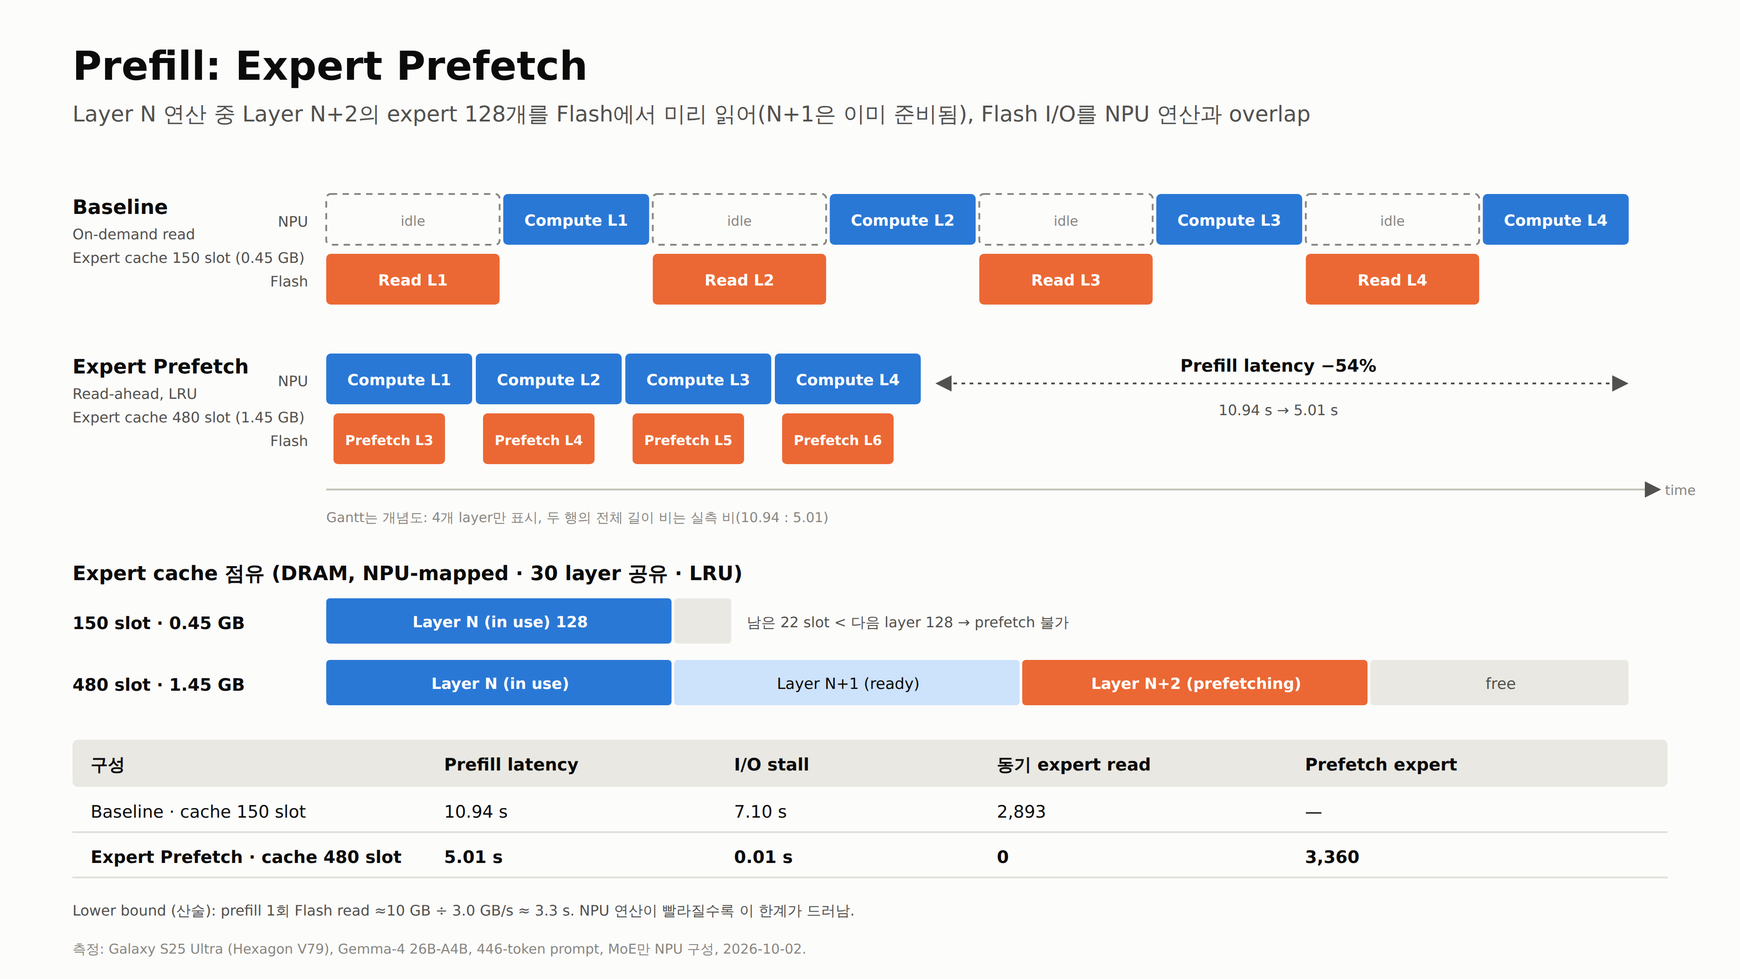
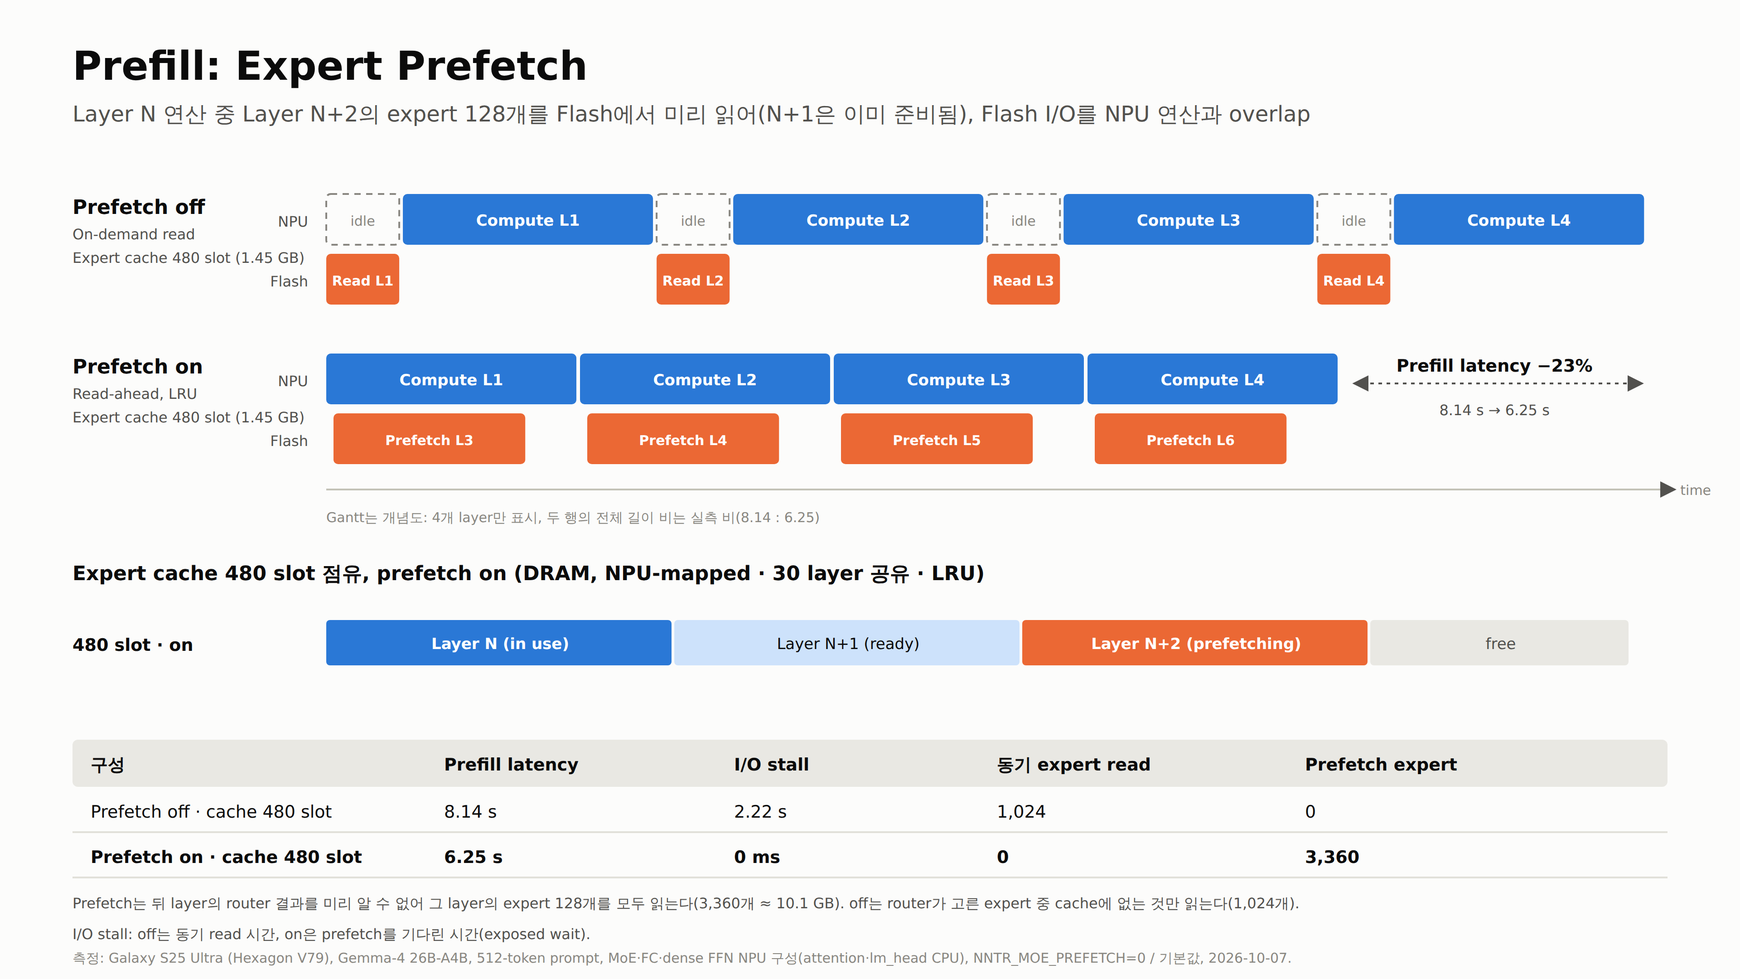
[Docs] Prefill prefetch figure: off vs on at the same 480-slot cache
The old baseline was a 150-slot cache, so it changed two things at
once. Redraw it from the 2026-10-07 device pair that differs only in
NNTR_MOE_PREFETCH (512 tokens: 8.14 s off, 6.25 s on) and record the
runs in 57 section 9.8.

Claude-Session: https://claude.ai/code/session_01DSR1wqiXYbkGfHZr8uSdzK

diff --git a/docs/htp_attention/figures/fsu/fsu_prefill_prefetch.html b/docs/htp_attention/figures/fsu/fsu_prefill_prefetch.html
@@ -35,77 +35,72 @@ svg { display:block; font-family:"Noto Sans KR",system-ui,sans-serif; }
 
 <text x="80" y="88" class="t1" text-anchor="start" >Prefill: Expert Prefetch</text>
 <text x="80" y="134" class="t2" text-anchor="start" >Layer N 연산 중 Layer N+2의 expert 128개를 Flash에서 미리 읽어(N+1은 이미 준비됨), Flash I/O를 NPU 연산과 overlap</text>
-<text x="80" y="236" class="h3" text-anchor="start" >Baseline</text>
+<text x="80" y="236" class="h3" text-anchor="start" >Prefetch off</text>
 <text x="80" y="264" class="sm" text-anchor="start" >On-demand read</text>
-<text x="80" y="290" class="sm" text-anchor="start" >Expert cache 150 slot (0.45 GB)</text>
+<text x="80" y="290" class="sm" text-anchor="start" >Expert cache 480 slot (1.45 GB)</text>
 <text x="340" y="250" class="sm" text-anchor="end" style="font-weight:500">NPU</text>
 <text x="340" y="316" class="sm" text-anchor="end" style="font-weight:500">Flash</text>
-<rect x="360.0" y="214" width="191.2994011976048" height="56" rx="5" fill="none" stroke="#898781" stroke-width="2" stroke-dasharray="7 6"/>
-<text x="455.6497005988024" y="249" class="xs" text-anchor="middle" >idle</text>
-<rect x="360.0" y="280" width="191.2994011976048" height="56" rx="5" fill="var(--read)" />
-<text x="455.6497005988024" y="315" class="lblw" text-anchor="middle" style="font-size:17px">Read L1</text>
-<rect x="555.2994011976048" y="214" width="161" height="56" rx="5" fill="var(--npu)" />
-<text x="635.7994011976048" y="249" class="lblw" text-anchor="middle" style="font-size:17px">Compute L1</text>
-<rect x="720.2994011976048" y="214" width="191.2994011976048" height="56" rx="5" fill="none" stroke="#898781" stroke-width="2" stroke-dasharray="7 6"/>
-<text x="815.9491017964071" y="249" class="xs" text-anchor="middle" >idle</text>
-<rect x="720.2994011976048" y="280" width="191.2994011976048" height="56" rx="5" fill="var(--read)" />
-<text x="815.9491017964071" y="315" class="lblw" text-anchor="middle" style="font-size:17px">Read L2</text>
-<rect x="915.5988023952095" y="214" width="161" height="56" rx="5" fill="var(--npu)" />
-<text x="996.0988023952095" y="249" class="lblw" text-anchor="middle" style="font-size:17px">Compute L2</text>
-<rect x="1080.5988023952095" y="214" width="191.2994011976048" height="56" rx="5" fill="none" stroke="#898781" stroke-width="2" stroke-dasharray="7 6"/>
-<text x="1176.248502994012" y="249" class="xs" text-anchor="middle" >idle</text>
-<rect x="1080.5988023952095" y="280" width="191.2994011976048" height="56" rx="5" fill="var(--read)" />
-<text x="1176.248502994012" y="315" class="lblw" text-anchor="middle" style="font-size:17px">Read L3</text>
-<rect x="1275.8982035928143" y="214" width="161" height="56" rx="5" fill="var(--npu)" />
-<text x="1356.3982035928143" y="249" class="lblw" text-anchor="middle" style="font-size:17px">Compute L3</text>
-<rect x="1440.8982035928143" y="214" width="191.2994011976048" height="56" rx="5" fill="none" stroke="#898781" stroke-width="2" stroke-dasharray="7 6"/>
-<text x="1536.5479041916167" y="249" class="xs" text-anchor="middle" >idle</text>
-<rect x="1440.8982035928143" y="280" width="191.2994011976048" height="56" rx="5" fill="var(--read)" />
-<text x="1536.5479041916167" y="315" class="lblw" text-anchor="middle" style="font-size:17px">Read L4</text>
-<rect x="1636.197604790419" y="214" width="161" height="56" rx="5" fill="var(--npu)" />
-<text x="1716.697604790419" y="249" class="lblw" text-anchor="middle" style="font-size:17px">Compute L4</text>
-<text x="80" y="412" class="h3" text-anchor="start" >Expert Prefetch</text>
+<rect x="360.0" y="214" width="80.5376" height="56" rx="5" fill="none" stroke="#898781" stroke-width="2" stroke-dasharray="7 6"/>
+<text x="400.2688" y="249" class="xs" text-anchor="middle" >idle</text>
+<rect x="360.0" y="280" width="80.5376" height="56" rx="5" fill="var(--read)" />
+<text x="400.2688" y="315" class="lblw" text-anchor="middle" style="font-size:15px">Read L1</text>
+<rect x="444.5376" y="214" width="276" height="56" rx="5" fill="var(--npu)" />
+<text x="582.5376" y="249" class="lblw" text-anchor="middle" style="font-size:17px">Compute L1</text>
+<rect x="724.5376" y="214" width="80.5376" height="56" rx="5" fill="none" stroke="#898781" stroke-width="2" stroke-dasharray="7 6"/>
+<text x="764.8063999999999" y="249" class="xs" text-anchor="middle" >idle</text>
+<rect x="724.5376" y="280" width="80.5376" height="56" rx="5" fill="var(--read)" />
+<text x="764.8063999999999" y="315" class="lblw" text-anchor="middle" style="font-size:15px">Read L2</text>
+<rect x="809.0752" y="214" width="276" height="56" rx="5" fill="var(--npu)" />
+<text x="947.0752" y="249" class="lblw" text-anchor="middle" style="font-size:17px">Compute L2</text>
+<rect x="1089.0752" y="214" width="80.5376" height="56" rx="5" fill="none" stroke="#898781" stroke-width="2" stroke-dasharray="7 6"/>
+<text x="1129.344" y="249" class="xs" text-anchor="middle" >idle</text>
+<rect x="1089.0752" y="280" width="80.5376" height="56" rx="5" fill="var(--read)" />
+<text x="1129.344" y="315" class="lblw" text-anchor="middle" style="font-size:15px">Read L3</text>
+<rect x="1173.6127999999999" y="214" width="276" height="56" rx="5" fill="var(--npu)" />
+<text x="1311.6127999999999" y="249" class="lblw" text-anchor="middle" style="font-size:17px">Compute L3</text>
+<rect x="1453.6127999999999" y="214" width="80.5376" height="56" rx="5" fill="none" stroke="#898781" stroke-width="2" stroke-dasharray="7 6"/>
+<text x="1493.8816" y="249" class="xs" text-anchor="middle" >idle</text>
+<rect x="1453.6127999999999" y="280" width="80.5376" height="56" rx="5" fill="var(--read)" />
+<text x="1493.8816" y="315" class="lblw" text-anchor="middle" style="font-size:15px">Read L4</text>
+<rect x="1538.1504" y="214" width="276" height="56" rx="5" fill="var(--npu)" />
+<text x="1676.1504" y="249" class="lblw" text-anchor="middle" style="font-size:17px">Compute L4</text>
+<text x="80" y="412" class="h3" text-anchor="start" >Prefetch on</text>
 <text x="80" y="440" class="sm" text-anchor="start" >Read-ahead, LRU</text>
 <text x="80" y="466" class="sm" text-anchor="start" >Expert cache 480 slot (1.45 GB)</text>
 <text x="340" y="426" class="sm" text-anchor="end" style="font-weight:500">NPU</text>
 <text x="340" y="492" class="sm" text-anchor="end" style="font-weight:500">Flash</text>
-<rect x="360" y="390" width="161" height="56" rx="5" fill="var(--npu)" />
-<text x="440.5" y="425" class="lblw" text-anchor="middle" style="font-size:17px">Compute L1</text>
-<rect x="368" y="456" width="123.05" height="56" rx="5" fill="var(--read)" />
-<text x="429.525" y="491" class="lblw" text-anchor="middle" style="font-size:15px">Prefetch L3</text>
-<rect x="525" y="390" width="161" height="56" rx="5" fill="var(--npu)" />
-<text x="605.5" y="425" class="lblw" text-anchor="middle" style="font-size:17px">Compute L2</text>
-<rect x="533" y="456" width="123.05" height="56" rx="5" fill="var(--read)" />
-<text x="594.525" y="491" class="lblw" text-anchor="middle" style="font-size:15px">Prefetch L4</text>
-<rect x="690" y="390" width="161" height="56" rx="5" fill="var(--npu)" />
-<text x="770.5" y="425" class="lblw" text-anchor="middle" style="font-size:17px">Compute L3</text>
-<rect x="698" y="456" width="123.05" height="56" rx="5" fill="var(--read)" />
-<text x="759.525" y="491" class="lblw" text-anchor="middle" style="font-size:15px">Prefetch L5</text>
-<rect x="855" y="390" width="161" height="56" rx="5" fill="var(--npu)" />
-<text x="935.5" y="425" class="lblw" text-anchor="middle" style="font-size:17px">Compute L4</text>
-<rect x="863" y="456" width="123.05" height="56" rx="5" fill="var(--read)" />
-<text x="924.525" y="491" class="lblw" text-anchor="middle" style="font-size:15px">Prefetch L6</text>
-<path d="M360,540 L1831.197604790419,540" stroke="#c3c2b7" stroke-width="2" marker-end="url(#ah)"/>
-<text x="1837.197604790419" y="546" class="xs" text-anchor="start" >time</text>
-<path d="M1034,423 L1795.197604790419,423" stroke="#52514e" stroke-width="2" stroke-dasharray="4 5" marker-end="url(#ah)" marker-start="url(#ah)"/>
-<text x="1410.5988023952095" y="410" class="lbl" text-anchor="middle" style="font-weight:700">Prefill latency −54%</text>
-<text x="1410.5988023952095" y="458" class="sm" text-anchor="middle" >10.94 s → 5.01 s</text>
-<text x="360" y="576" class="xs" text-anchor="start" >Gantt는 개념도: 4개 layer만 표시, 두 행의 전체 길이 비는 실측 비(10.94 : 5.01)</text>
-<text x="80" y="640" class="h3" text-anchor="start" >Expert cache 점유 (DRAM, NPU-mapped · 30 layer 공유 · LRU)</text>
-<text x="80" y="694" class="lbl" text-anchor="start" style="font-weight:700">150 slot · 0.45 GB</text>
-<rect x="360" y="660" width="381.0" height="50" rx="4" fill="var(--npu)" />
-<text x="552.0" y="692" class="lblw" text-anchor="middle" style="font-size:17px">Layer N (in use) 128</text>
-<rect x="744.0" y="660" width="63.0" height="50" rx="4" fill="var(--idle)" />
-<text x="824.0" y="692" class="sm" text-anchor="start" >남은 22 slot < 다음 layer 128 → prefetch 불가</text>
-<text x="80" y="762" class="lbl" text-anchor="start" style="font-weight:700">480 slot · 1.45 GB</text>
-<rect x="360" y="728" width="381.0" height="50" rx="4" fill="var(--npu)" />
-<text x="552.0" y="760" class="lblw" text-anchor="middle" style="font-size:17px">Layer N (in use)</text>
-<rect x="744.0" y="728" width="381.0" height="50" rx="4" fill="var(--npu-t)" />
-<text x="936.0" y="760" class="lbl" text-anchor="middle" style="font-size:17px">Layer N+1 (ready)</text>
-<rect x="1128.0" y="728" width="381.0" height="50" rx="4" fill="var(--read)" />
-<text x="1320.0" y="760" class="lblw" text-anchor="middle" style="font-size:17px">Layer N+2 (prefetching)</text>
-<rect x="1512.0" y="728" width="285.0" height="50" rx="4" fill="var(--idle)" />
-<text x="1656.0" y="760" class="sm" text-anchor="middle" style="font-size:17px">free</text>
+<rect x="360" y="390" width="276" height="56" rx="5" fill="var(--npu)" />
+<text x="498.0" y="425" class="lblw" text-anchor="middle" style="font-size:17px">Compute L1</text>
+<rect x="368" y="456" width="211.6" height="56" rx="5" fill="var(--read)" />
+<text x="473.8" y="491" class="lblw" text-anchor="middle" style="font-size:15px">Prefetch L3</text>
+<rect x="640" y="390" width="276" height="56" rx="5" fill="var(--npu)" />
+<text x="778.0" y="425" class="lblw" text-anchor="middle" style="font-size:17px">Compute L2</text>
+<rect x="648" y="456" width="211.6" height="56" rx="5" fill="var(--read)" />
+<text x="753.8" y="491" class="lblw" text-anchor="middle" style="font-size:15px">Prefetch L4</text>
+<rect x="920" y="390" width="276" height="56" rx="5" fill="var(--npu)" />
+<text x="1058.0" y="425" class="lblw" text-anchor="middle" style="font-size:17px">Compute L3</text>
+<rect x="928" y="456" width="211.6" height="56" rx="5" fill="var(--read)" />
+<text x="1033.8" y="491" class="lblw" text-anchor="middle" style="font-size:15px">Prefetch L5</text>
+<rect x="1200" y="390" width="276" height="56" rx="5" fill="var(--npu)" />
+<text x="1338.0" y="425" class="lblw" text-anchor="middle" style="font-size:17px">Compute L4</text>
+<rect x="1208" y="456" width="211.6" height="56" rx="5" fill="var(--read)" />
+<text x="1313.8" y="491" class="lblw" text-anchor="middle" style="font-size:15px">Prefetch L6</text>
+<path d="M360,540 L1848.1504,540" stroke="#c3c2b7" stroke-width="2" marker-end="url(#ah)"/>
+<text x="1854.1504" y="546" class="xs" text-anchor="start" >time</text>
+<path d="M1494,423 L1812.1504,423" stroke="#52514e" stroke-width="2" stroke-dasharray="4 5" marker-end="url(#ah)" marker-start="url(#ah)"/>
+<text x="1649.0752" y="410" class="lbl" text-anchor="middle" style="font-weight:700">Prefill latency −23%</text>
+<text x="1649.0752" y="458" class="sm" text-anchor="middle" >8.14 s → 6.25 s</text>
+<text x="360" y="576" class="xs" text-anchor="start" >Gantt는 개념도: 4개 layer만 표시, 두 행의 전체 길이 비는 실측 비(8.14 : 6.25)</text>
+<text x="80" y="640" class="h3" text-anchor="start" >Expert cache 480 slot 점유, prefetch on (DRAM, NPU-mapped · 30 layer 공유 · LRU)</text>
+<text x="80" y="718" class="lbl" text-anchor="start" style="font-weight:700">480 slot · on</text>
+<rect x="360" y="684" width="381.0" height="50" rx="4" fill="var(--npu)" />
+<text x="552.0" y="716" class="lblw" text-anchor="middle" style="font-size:17px">Layer N (in use)</text>
+<rect x="744.0" y="684" width="381.0" height="50" rx="4" fill="var(--npu-t)" />
+<text x="936.0" y="716" class="lbl" text-anchor="middle" style="font-size:17px">Layer N+1 (ready)</text>
+<rect x="1128.0" y="684" width="381.0" height="50" rx="4" fill="var(--read)" />
+<text x="1320.0" y="716" class="lblw" text-anchor="middle" style="font-size:17px">Layer N+2 (prefetching)</text>
+<rect x="1512.0" y="684" width="285.0" height="50" rx="4" fill="var(--idle)" />
+<text x="1656.0" y="716" class="sm" text-anchor="middle" style="font-size:17px">free</text>
 <rect x="80" y="816" width="1760" height="52" rx="6" fill="var(--idle)" />
 <text x="100" y="850" class="lbl" text-anchor="start" style="font-weight:700">구성</text>
 <text x="490" y="850" class="lbl" text-anchor="start" style="font-weight:700">Prefill latency</text>
@@ -113,17 +108,18 @@ svg { display:block; font-family:"Noto Sans KR",system-ui,sans-serif; }
 <text x="1100" y="850" class="lbl" text-anchor="start" style="font-weight:700">동기 expert read</text>
 <text x="1440" y="850" class="lbl" text-anchor="start" style="font-weight:700">Prefetch expert</text>
 <path d="M80,918 L1840,918" stroke="#e1e0d9" stroke-width="2"/>
-<text x="100" y="902" class="lbl" text-anchor="start" >Baseline · cache 150 slot</text>
-<text x="490" y="902" class="lbl" text-anchor="start" >10.94 s</text>
-<text x="810" y="902" class="lbl" text-anchor="start" >7.10 s</text>
-<text x="1100" y="902" class="lbl" text-anchor="start" >2,893</text>
-<text x="1440" y="902" class="lbl" text-anchor="start" >—</text>
+<text x="100" y="902" class="lbl" text-anchor="start" >Prefetch off · cache 480 slot</text>
+<text x="490" y="902" class="lbl" text-anchor="start" >8.14 s</text>
+<text x="810" y="902" class="lbl" text-anchor="start" >2.22 s</text>
+<text x="1100" y="902" class="lbl" text-anchor="start" >1,024</text>
+<text x="1440" y="902" class="lbl" text-anchor="start" >0</text>
 <path d="M80,968 L1840,968" stroke="#e1e0d9" stroke-width="2"/>
-<text x="100" y="952" class="lbl" text-anchor="start" style="font-weight:700">Expert Prefetch · cache 480 slot</text>
-<text x="490" y="952" class="lbl" text-anchor="start" style="font-weight:700">5.01 s</text>
-<text x="810" y="952" class="lbl" text-anchor="start" style="font-weight:700">0.01 s</text>
+<text x="100" y="952" class="lbl" text-anchor="start" style="font-weight:700">Prefetch on · cache 480 slot</text>
+<text x="490" y="952" class="lbl" text-anchor="start" style="font-weight:700">6.25 s</text>
+<text x="810" y="952" class="lbl" text-anchor="start" style="font-weight:700">0 ms</text>
 <text x="1100" y="952" class="lbl" text-anchor="start" style="font-weight:700">0</text>
 <text x="1440" y="952" class="lbl" text-anchor="start" style="font-weight:700">3,360</text>
-<text x="80" y="1010" class="sm" text-anchor="start" >Lower bound (산술): prefill 1회 Flash read ≈10 GB ÷ 3.0 GB/s ≈ 3.3 s. NPU 연산이 빨라질수록 이 한계가 드러남.</text>
-<text x="80" y="1052" class="xs" text-anchor="start" >측정: Galaxy S25 Ultra (Hexagon V79), Gemma-4 26B-A4B, 446-token prompt, MoE만 NPU 구성, 2026-10-02.</text>
+<text x="80" y="1002" class="sm" text-anchor="start" >Prefetch는 뒤 layer의 router 결과를 미리 알 수 없어 그 layer의 expert 128개를 모두 읽는다(3,360개 ≈ 10.1 GB). off는 router가 고른 expert 중 cache에 없는 것만 읽는다(1,024개).</text>
+<text x="80" y="1036" class="sm" text-anchor="start" >I/O stall: off는 동기 read 시간, on은 prefetch를 기다린 시간(exposed wait).</text>
+<text x="80" y="1062" class="xs" text-anchor="start" >측정: Galaxy S25 Ultra (Hexagon V79), Gemma-4 26B-A4B, 512-token prompt, MoE·FC·dense FFN NPU 구성(attention·lm_head CPU), NNTR_MOE_PREFETCH=0 / 기본값, 2026-10-07.</text>
 </svg></body></html>

diff --git a/docs/htp_attention/figures/fsu/gen.py b/docs/htp_attention/figures/fsu/gen.py
@@ -426,8 +426,8 @@ def figP():
     o = [HEAD.format(title="Prefill Expert Prefetch")]
     o.append(text(80, 88, "Prefill: Expert Prefetch", "t1"))
     o.append(text(80, 134, "Layer N 연산 중 Layer N+2의 expert 128개를 Flash에서 미리 읽어(N+1은 이미 준비됨), Flash I/O를 NPU 연산과 overlap", "t2"))
-    x0, c = 360, 165
-    r = (10.94 / 5.01 - 1) * c          # totals keep the measured ratio
+    x0, c = 360, 280
+    r = (8.137 / 6.250 - 1) * c         # totals keep the measured ratio
 
     def lane_lbl(y, s):
         o.append(text(340, y + 36, s, "sm", "end", 'style="font-weight:500"'))
@@ -442,18 +442,18 @@ def figP():
         o.append(text(x + (w - 4) / 2, y + 35, "idle", "xs", "middle"))
 
     # baseline
-    o.append(text(80, 236, "Baseline", "h3"))
+    o.append(text(80, 236, "Prefetch off", "h3"))
     o.append(text(80, 264, "On-demand read", "sm"))
-    o.append(text(80, 290, "Expert cache 150 slot (0.45 GB)", "sm"))
+    o.append(text(80, 290, "Expert cache 480 slot (1.45 GB)", "sm"))
     lane_lbl(214, "NPU")
     lane_lbl(280, "Flash")
     for i in range(4):
         t = x0 + i * (r + c)
         idle(t, 214, r)
-        blk(t, 280, r, "var(--read)", f"Read L{i + 1}")
+        blk(t, 280, r, "var(--read)", f"Read L{i + 1}", 15)
         blk(t + r, 214, c, "var(--npu)", f"Compute L{i + 1}")
     # prefetch
-    o.append(text(80, 412, "Expert Prefetch", "h3"))
+    o.append(text(80, 412, "Prefetch on", "h3"))
     o.append(text(80, 440, "Read-ahead, LRU", "sm"))
     o.append(text(80, 466, "Expert cache 480 slot (1.45 GB)", "sm"))
     lane_lbl(390, "NPU")
@@ -467,12 +467,12 @@ def figP():
     o.append(text(xe1 + 36, 546, "time", "xs"))
     o.append(f'<path d="M{xe2 + 14},423 L{xe1 - 6},423" stroke="#52514e" stroke-width="2" '
              f'stroke-dasharray="4 5" marker-end="url(#ah)" marker-start="url(#ah)"/>')
-    o.append(text((xe2 + xe1) / 2, 410, "Prefill latency −54%", "lbl", "middle", 'style="font-weight:700"'))
-    o.append(text((xe2 + xe1) / 2, 458, "10.94 s → 5.01 s", "sm", "middle"))
-    o.append(text(x0, 576, "Gantt는 개념도: 4개 layer만 표시, 두 행의 전체 길이 비는 실측 비(10.94 : 5.01)", "xs"))
+    o.append(text((xe2 + xe1) / 2, 410, "Prefill latency −23%", "lbl", "middle", 'style="font-weight:700"'))
+    o.append(text((xe2 + xe1) / 2, 458, "8.14 s → 6.25 s", "sm", "middle"))
+    o.append(text(x0, 576, "Gantt는 개념도: 4개 layer만 표시, 두 행의 전체 길이 비는 실측 비(8.14 : 6.25)", "xs"))
 
     # cache occupancy
-    o.append(text(80, 640, "Expert cache 점유 (DRAM, NPU-mapped · 30 layer 공유 · LRU)", "h3"))
+    o.append(text(80, 640, "Expert cache 480 slot 점유, prefetch on (DRAM, NPU-mapped · 30 layer 공유 · LRU)", "h3"))
     sc = 1440 / 480
 
     def occ(y, name, segs, note):
@@ -485,10 +485,7 @@ def figP():
             x += n * sc
         if note:
             o.append(text(x + 14, y + 32, note, "sm"))
-    occ(660, "150 slot · 0.45 GB", [(128, "var(--npu)", "Layer N (in use) 128", "lblw"),
-                                    (22, "var(--idle)", "", "sm")],
-        "남은 22 slot < 다음 layer 128 → prefetch 불가")
-    occ(728, "480 slot · 1.45 GB", [(128, "var(--npu)", "Layer N (in use)", "lblw"),
+    occ(684, "480 slot · on", [(128, "var(--npu)", "Layer N (in use)", "lblw"),
                                      (128, "var(--npu-t)", "Layer N+1 (ready)", "lbl"),
                                      (128, "var(--read)", "Layer N+2 (prefetching)", "lblw"),
                                      (96, "var(--idle)", "free", "sm")], "")
@@ -500,16 +497,18 @@ def figP():
     o.append(rect(80, ty, 1760, 52, "var(--idle)", 6))
     for x, h in cols:
         o.append(text(x + 20, ty + 34, h, "lbl", extra='style="font-weight:700"'))
-    rows = [("Baseline · cache 150 slot", "10.94 s", "7.10 s", "2,893", "—"),
-            ("Expert Prefetch · cache 480 slot", "5.01 s", "0.01 s", "0", "3,360")]
+    rows = [("Prefetch off · cache 480 slot", "8.14 s", "2.22 s", "1,024", "0"),
+            ("Prefetch on · cache 480 slot", "6.25 s", "0 ms", "0", "3,360")]
     for k, row in enumerate(rows):
         y = ty + 52 + k * 50
         o.append(f'<path d="M80,{y + 50} L1840,{y + 50}" stroke="#e1e0d9" stroke-width="2"/>')
         for (x, _), v in zip(cols, row):
             o.append(text(x + 20, y + 34, v, "lbl", extra='style="font-weight:700"' if k == 1 else ""))
-    o.append(text(80, ty + 194, "Lower bound (산술): prefill 1회 Flash read ≈10 GB ÷ 3.0 GB/s ≈ 3.3 s. "
-                                "NPU 연산이 빨라질수록 이 한계가 드러남.", "sm"))
-    o.append(text(80, 1052, "측정: Galaxy S25 Ultra (Hexagon V79), Gemma-4 26B-A4B, 446-token prompt, MoE만 NPU 구성, 2026-10-02.", "xs"))
+    o.append(text(80, ty + 186, "Prefetch는 뒤 layer의 router 결과를 미리 알 수 없어 그 layer의 expert 128개를 모두 읽는다(3,360개 ≈ 10.1 GB). "
+                                "off는 router가 고른 expert 중 cache에 없는 것만 읽는다(1,024개).", "sm"))
+    o.append(text(80, ty + 220, "I/O stall: off는 동기 read 시간, on은 prefetch를 기다린 시간(exposed wait).", "sm"))
+    o.append(text(80, 1062, "측정: Galaxy S25 Ultra (Hexagon V79), Gemma-4 26B-A4B, 512-token prompt, MoE·FC·dense FFN NPU 구성(attention·lm_head CPU), "
+                            "NNTR_MOE_PREFETCH=0 / 기본값, 2026-10-07.", "xs"))
     o.append(TAIL)
     return "\n".join(o)
 

diff --git a/docs/htp_attention/57_gemma4_all_npu_task.md b/docs/htp_attention/57_gemma4_all_npu_task.md
@@ -420,3 +420,15 @@ config에 engine 키 넷을 모두 `htp`로 준 경우. 층당 DSP 호출 8회(q
 - 텍스트: 원문을 요약 없이 복사. base 체크포인트의 알려진 동작(55 §10.x)이라 회귀가 아니다.
 - prefill HTP 호출(decode 행 제외)은 약 1.77 s. router 행 `K=2816 N=128`이 10.3 ms/호출 × 30 = 310 ms로 §3의 CPU router 191 ms보다 느리다.
 - prefill이 기준보다 2.3 s 느린 원인은 아직 모른다. 같은 조건(HTP_PROFILE 없이) 재측정과 `--profile` 빌드의 `prefill_timeline.py` 분해가 먼저다.
+
+같은 bin·config로 이어서 잰 것(`cool` 사이, C=16):
+
+| | prefill | prefill 동기 expert read | prefetch |
+|---|---|---|---|
+| `NNTR_HTP_PROFILE` 없음 | 6330 ms | — | — |
+| `NNTR_MOE_PREFETCH=0` | 8137 ms | 1,024 (2,220 ms, 2.17 ms/miss) | 0 |
+| 기본(prefetch on) | 6250 ms | 0 | 3,360, 대기 0 ms |
+
+- 프로파일 없이도 6.3 s라서 §2 대비 느려진 것은 측정 조건이 아니라 실제 회귀다. 원인 미확인.
+- prefetch는 뒤 layer의 routing을 모르므로 layer의 128개를 모두 읽는다(3,360). off는 routed miss만 읽는다(1,024, layer당 약 34). 그래도 on이 1.9 s(23%) 빠르다.
+- 그림 `figures/fsu/fsu_prefill_prefetch.png`를 이 비교로 바꿨다.
